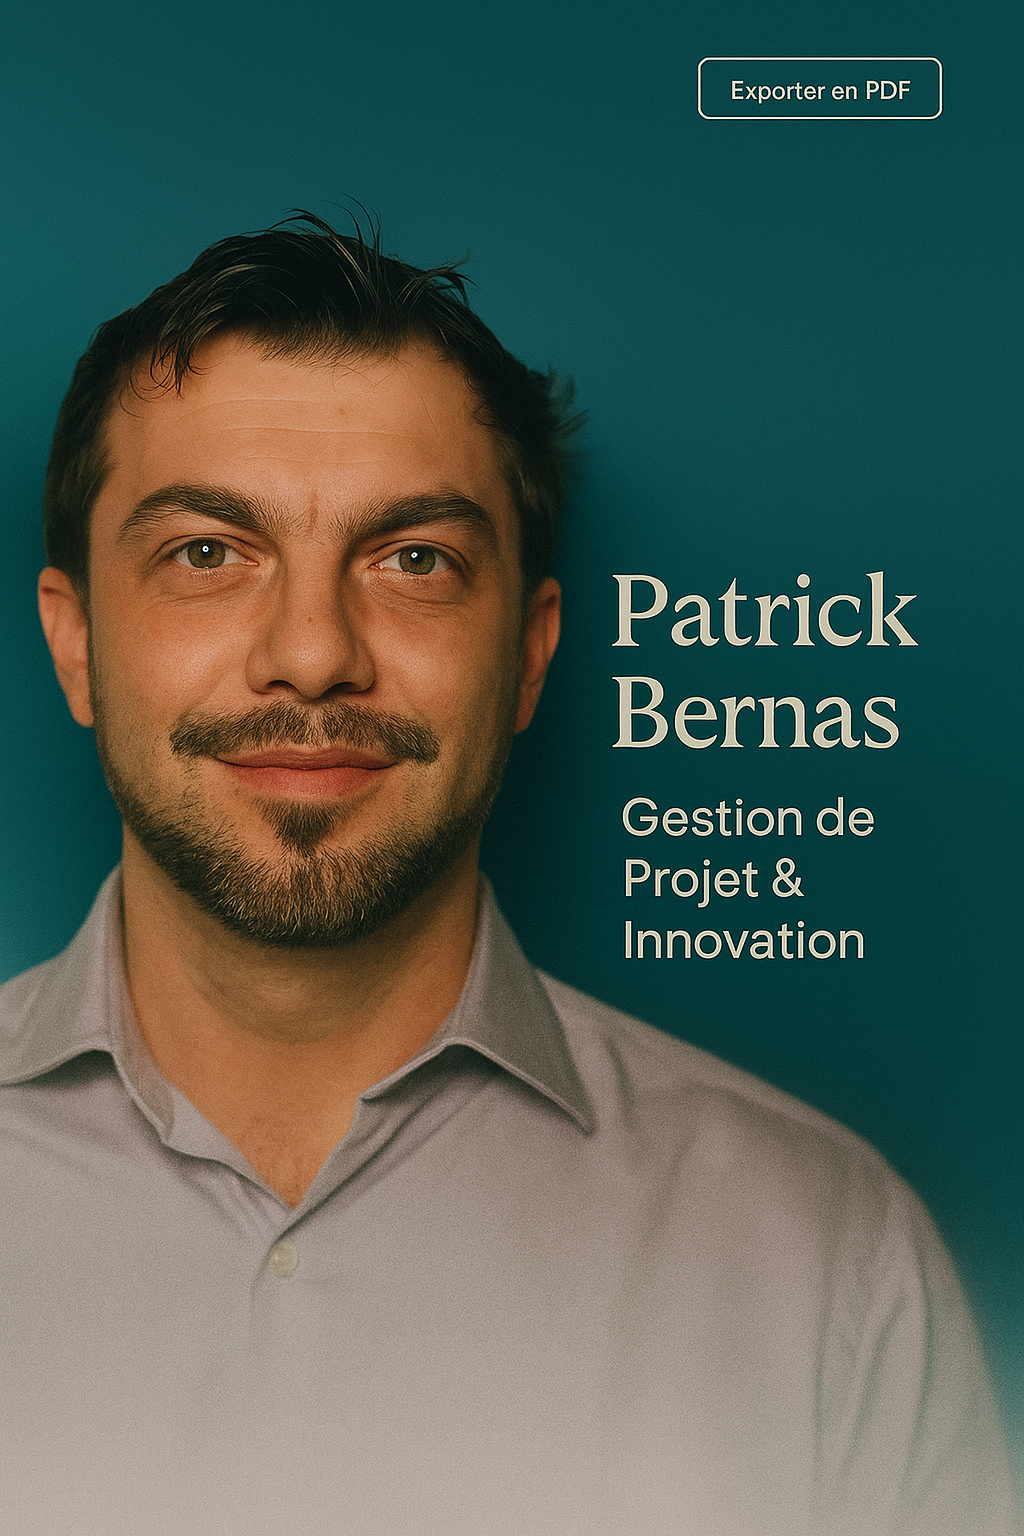
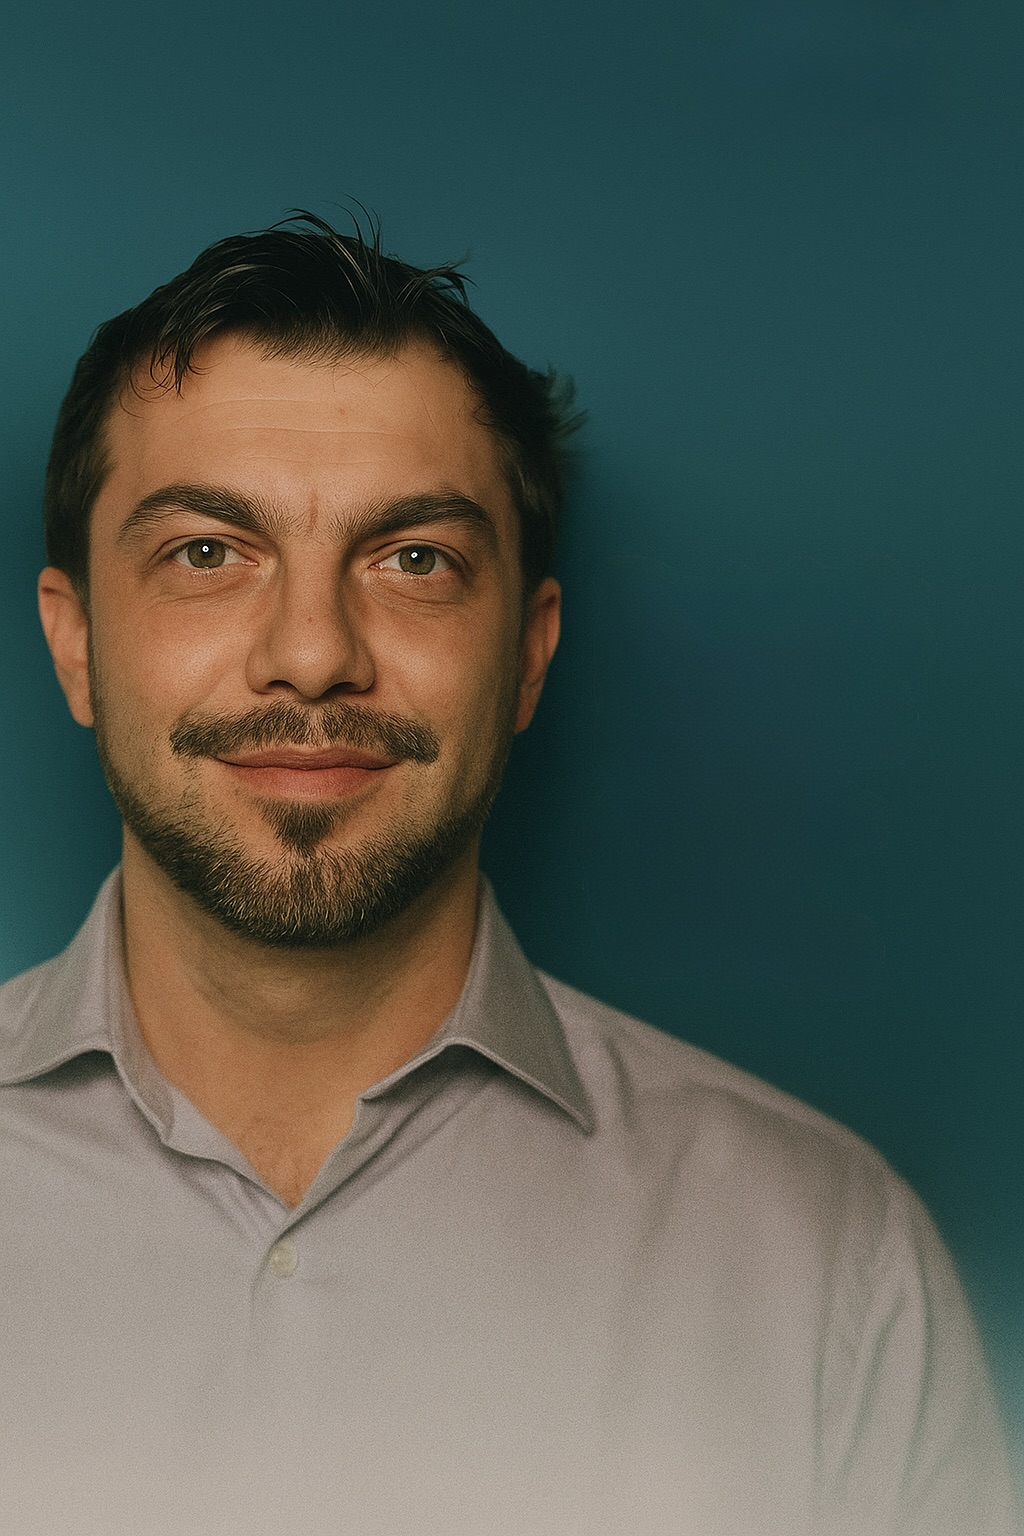
Add files via upload

diff --git a/styles.css b/styles.css
@@ -24,6 +24,21 @@ body{
   -moz-osx-font-smoothing: grayscale;
 }
 
+body::before {
+  content: "";
+  position: fixed;
+  top: 0;
+  left: 0;
+  width: 45vw;
+  height: 100%;
+  background: url('user_photo.jpg') center/cover no-repeat;
+  z-index: -1;
+  filter: brightness(0.95) saturate(1.1);
+}
+main {
+  margin-left: 45vw;
+}
+
 .container{width:min(1120px, 92vw); margin-inline:auto}
 .section{padding:64px 0}
 .section--alt{background: var(--bg-alt)}
@@ -46,10 +61,13 @@ body{
 }
 
 .hero-photo {
-  position: absolute;
-  inset: 0;
+  position: fixed;
+  top: 0;
+  left: 0;
+  width: 45vw;
+  height: 100%;
   background: url('user_photo.jpg') center/cover no-repeat;
-  filter: brightness(0.9) saturate(1.05);
+  filter: brightness(0.95) saturate(1.1);
   z-index: 0;
 }
 
@@ -57,11 +75,9 @@ body{
   content: "";
   position: absolute;
   inset: 0;
-  background: linear-gradient(90deg, rgba(14,19,32,0.55) 0%, rgba(10,20,25,0.7) 45%, rgba(20,60,70,0.9) 100%),
-              linear-gradient(to bottom, rgba(14,19,32,0) 85%, rgba(14,19,32,1) 100%);
+  background: linear-gradient(90deg, rgba(14,19,32,0.4) 0%, rgba(10,20,25,0.7) 45%, rgba(20,60,70,1) 100%);
   z-index: 1;
   opacity: 1;
-  transition: opacity 0.8s ease-in-out;
 }
 
 .hero-panel {
@@ -170,6 +186,18 @@ body{
 
 /* ====== Footer ====== */
 .footer{padding:28px 0; background: #0b1026; color: var(--muted); font-size:.95rem;}
+
+/* ====== Navigation Links Styling ====== */
+.nav a {
+  color: var(--text);
+  text-decoration: none;
+  margin-right: 18px;
+  font-weight: 500;
+  transition: color 0.3s ease;
+}
+.nav a:hover {
+  color: var(--accent);
+}
 
 /* ====== Responsive ====== */
 @media (max-width: 960px){
